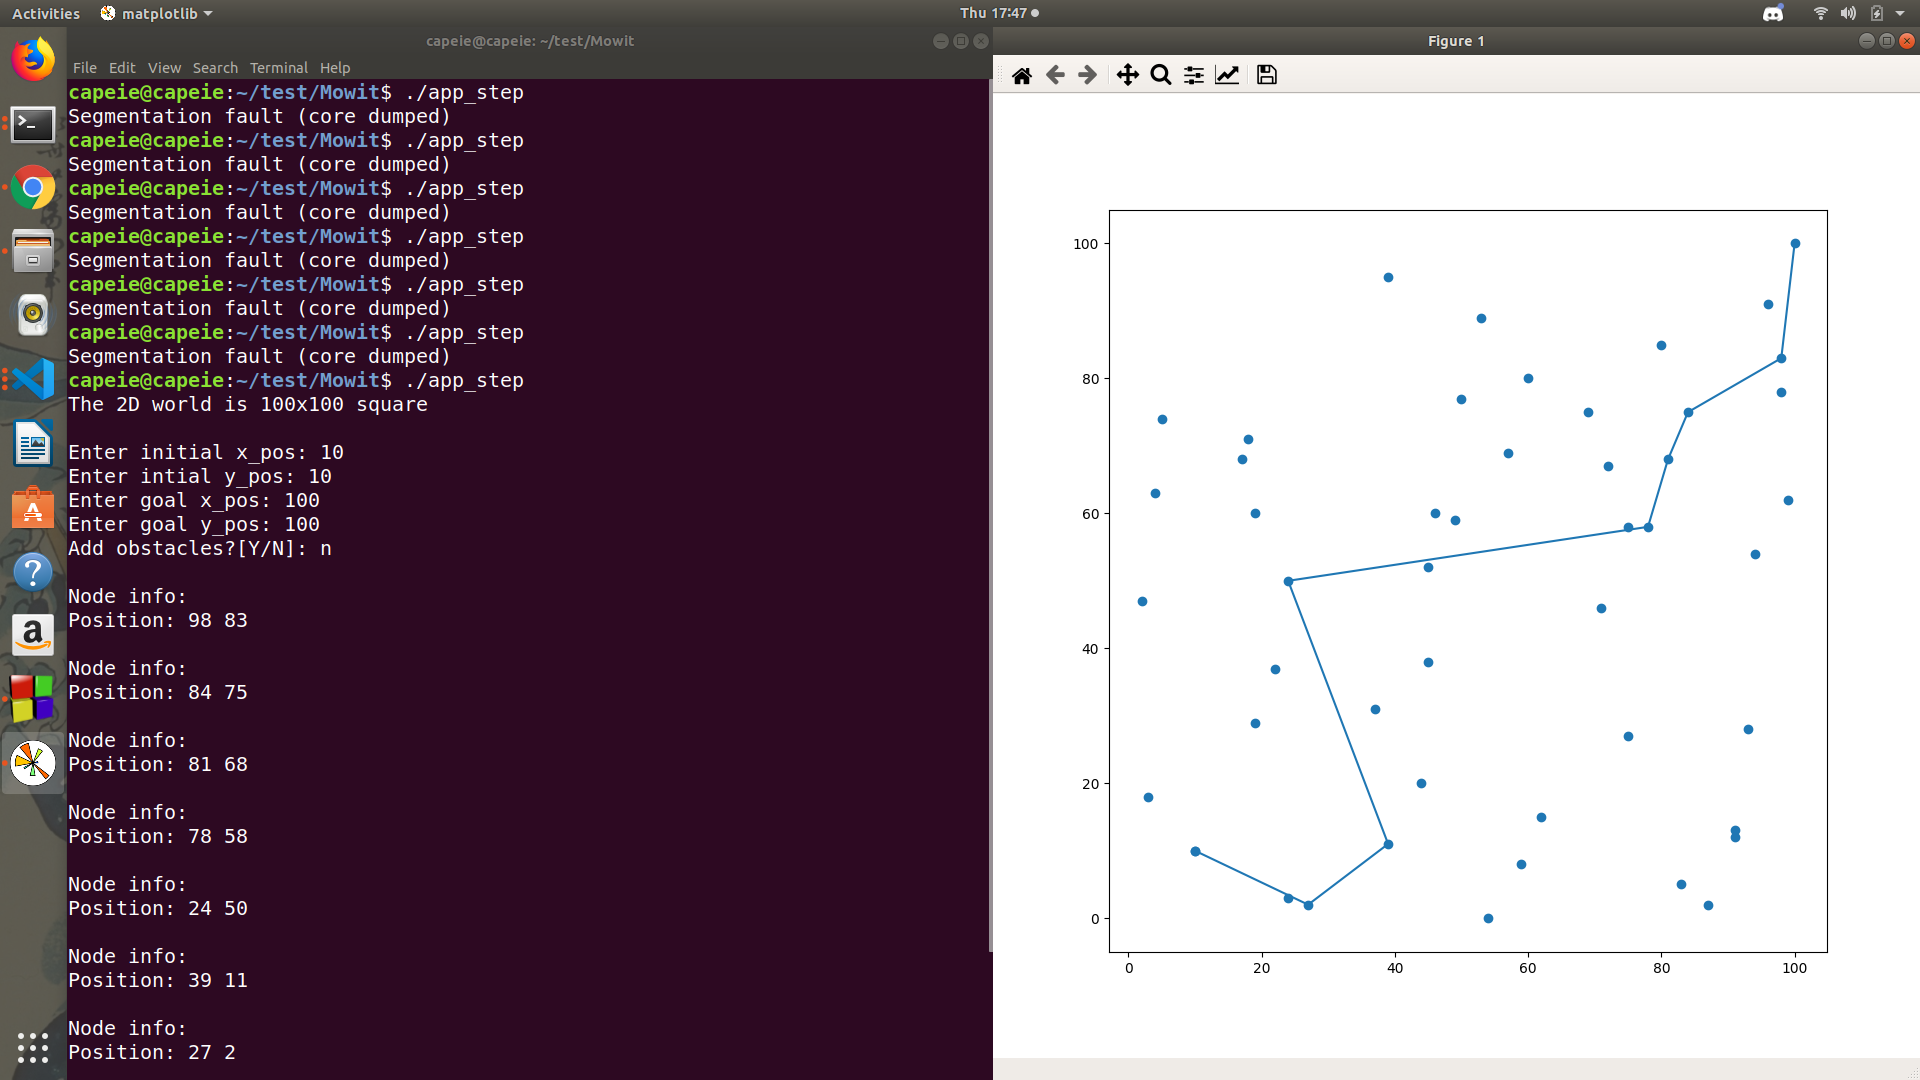
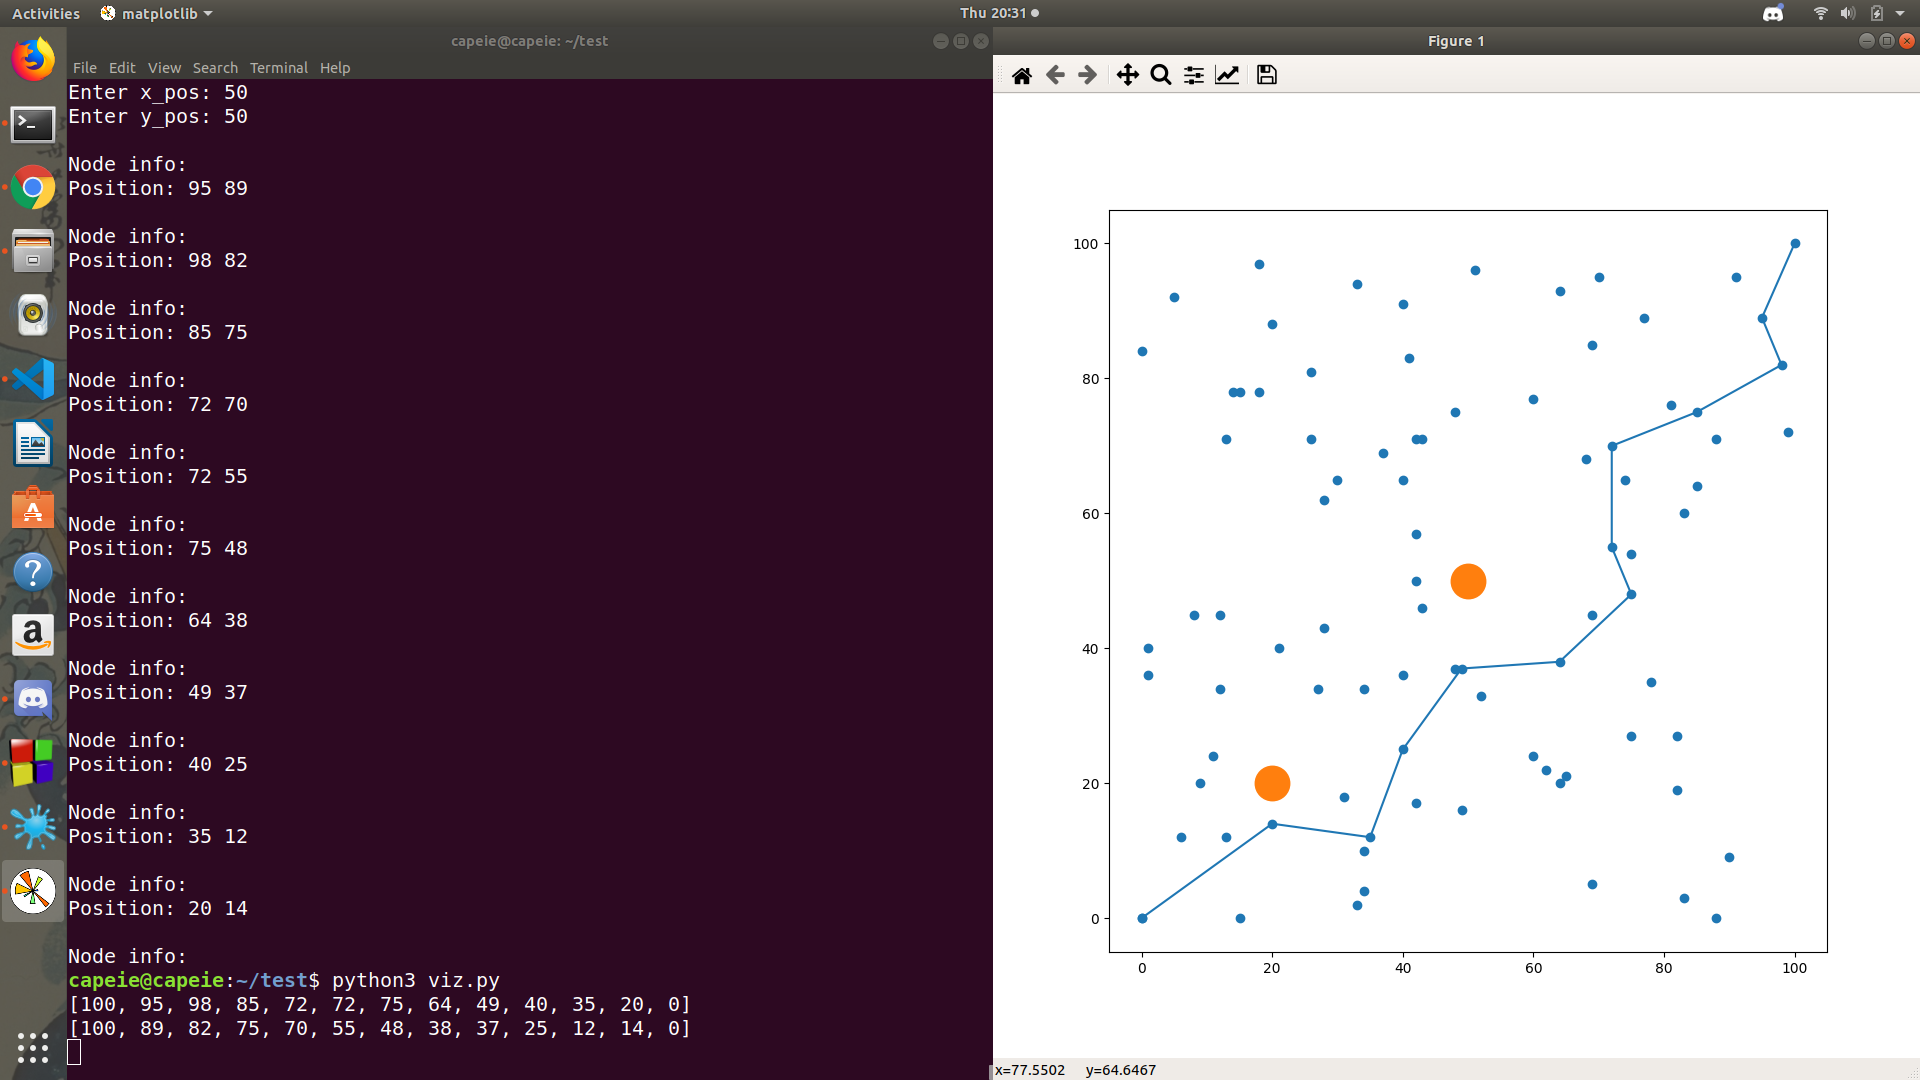
Corrected step size error, Added obstacle vizualization

diff --git a/README.md b/README.md
@@ -14,17 +14,19 @@
 	 $ ./app_step
  
 
-video demo of the working - https://youtu.be/_UQXuVOX684
+Video demo of the working - https://youtu.be/_UQXuVOX684
+
 Sample output:
 ![Test Image 1](output.png)
 
 # Explanantion and some assumptions:
  1. The world space is a 2D 100x100 square, hence the coordinates that are input into the program must be within the range (0-      100,0-100),
- 2. The obstacles are assumed to squares of 10x10 ( The input being the center of the square).
+ 2. The obstacles are assumed to squares of 20x20, vizualized as circles of with radius that fits in  	  the square ( The input being the center of the square).
  3. The output is a list of points from the goal to the origin. 
 
 # Things to be done differently:
  1. Make a header file for classes and functions.
- 2. Add node limit to the algorithm.
+ 
+
 
 
